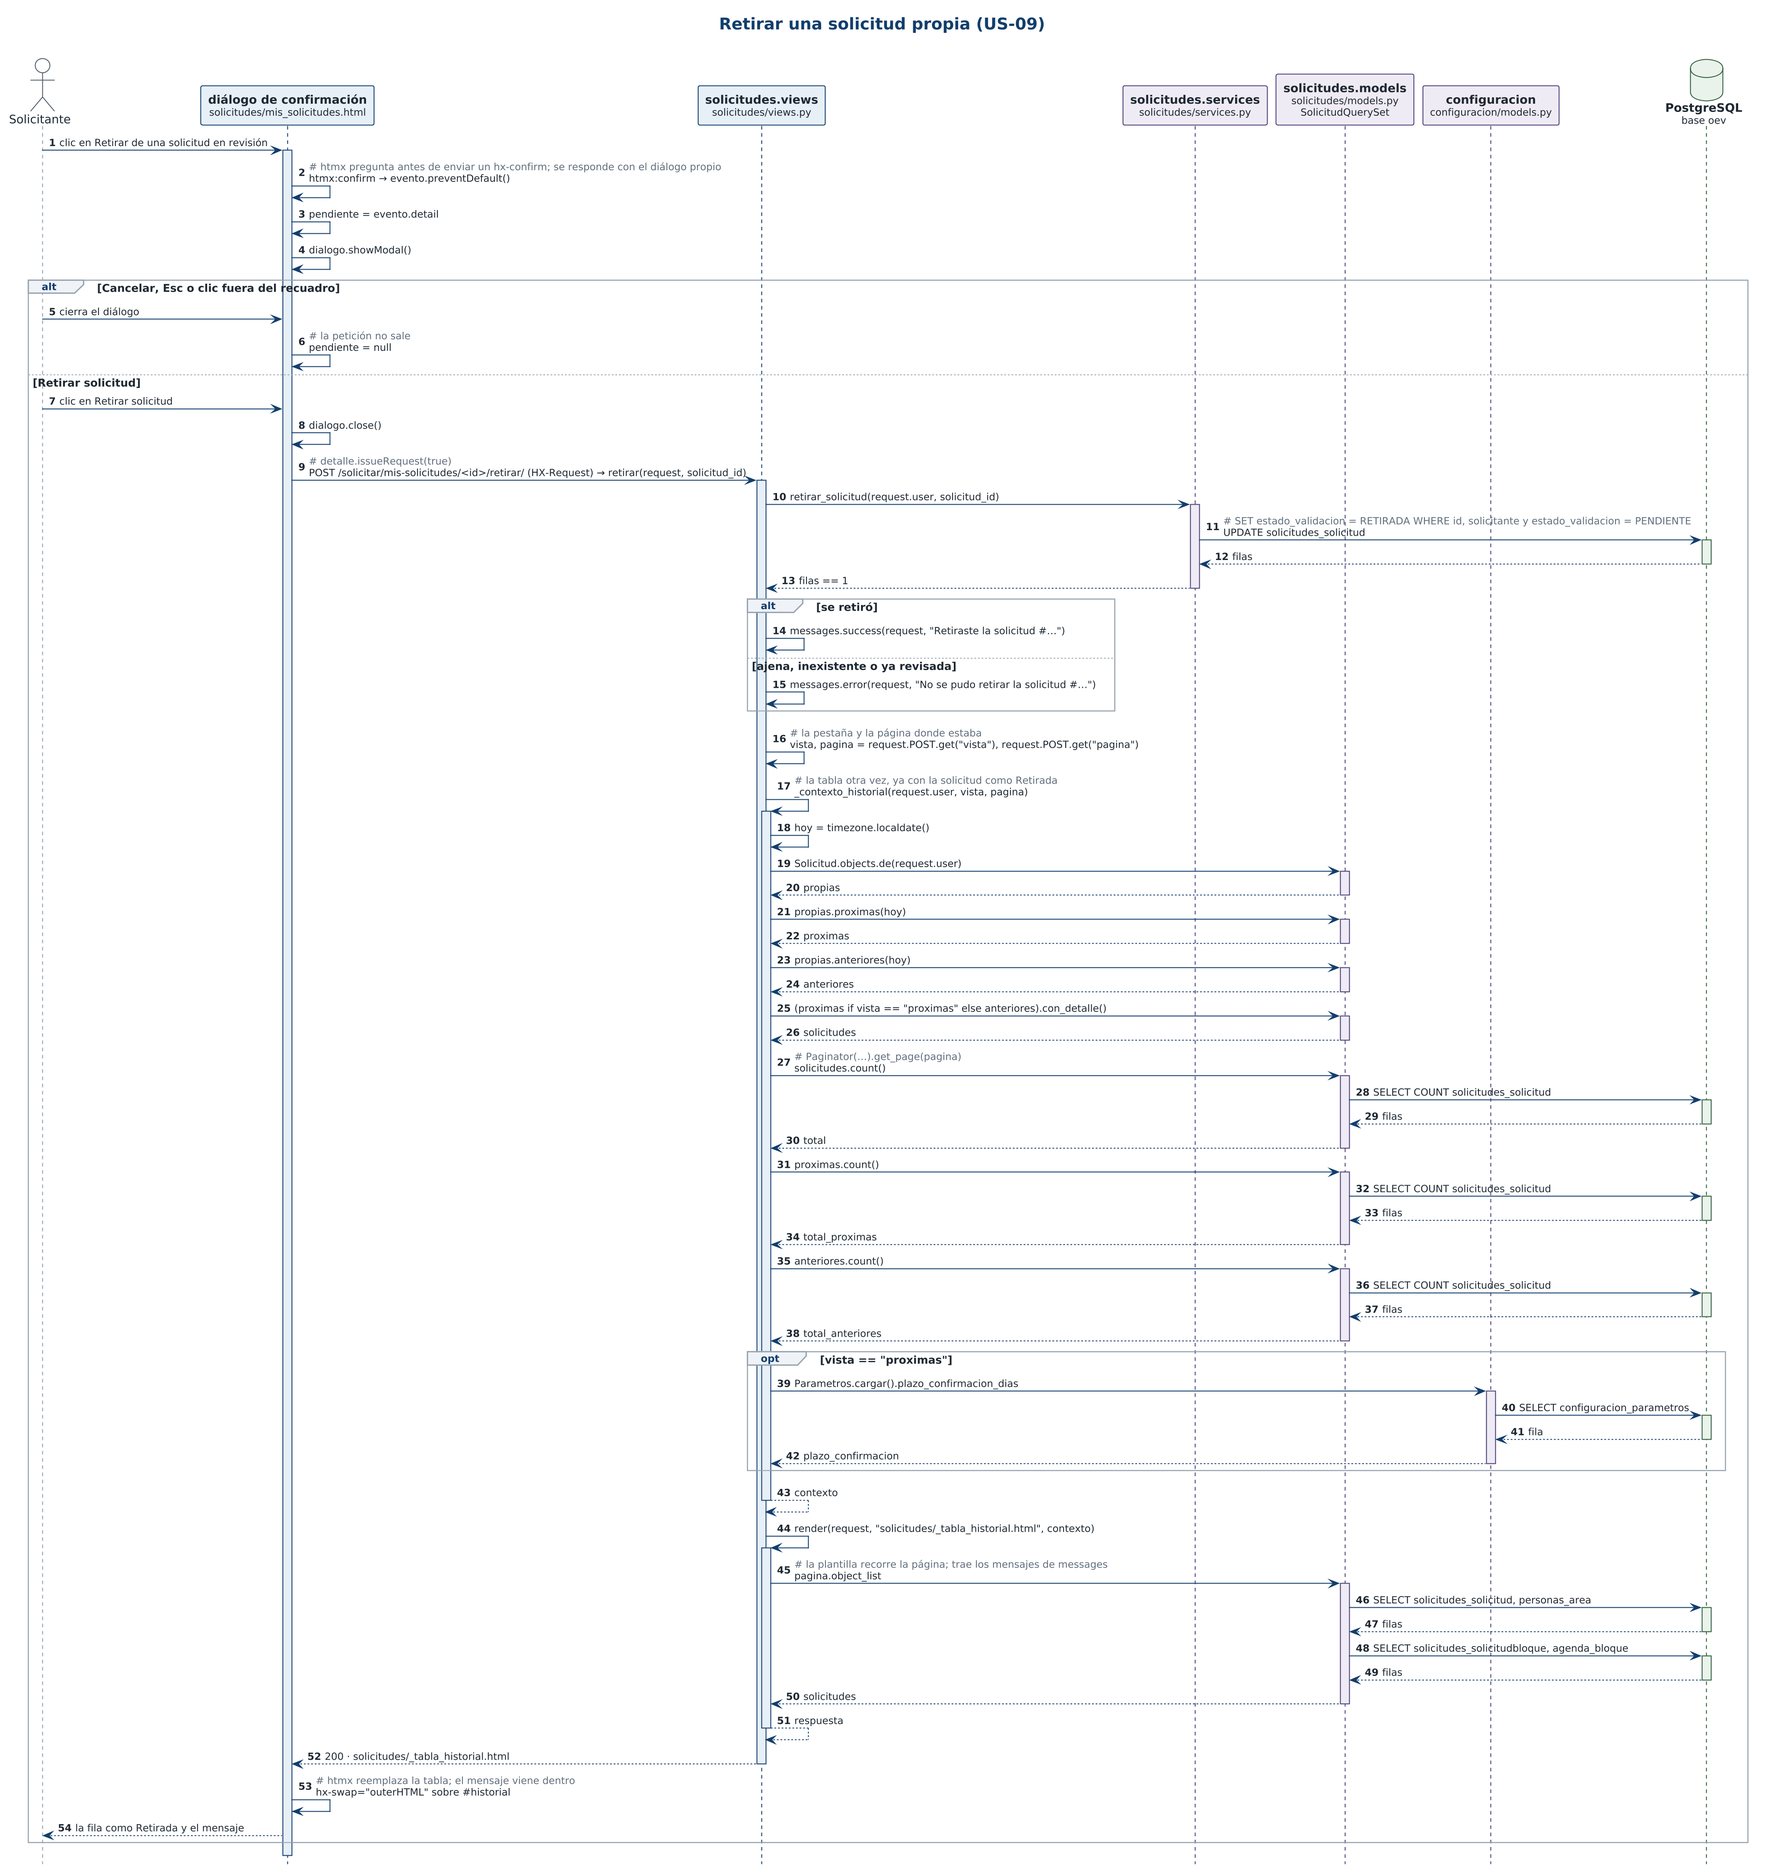
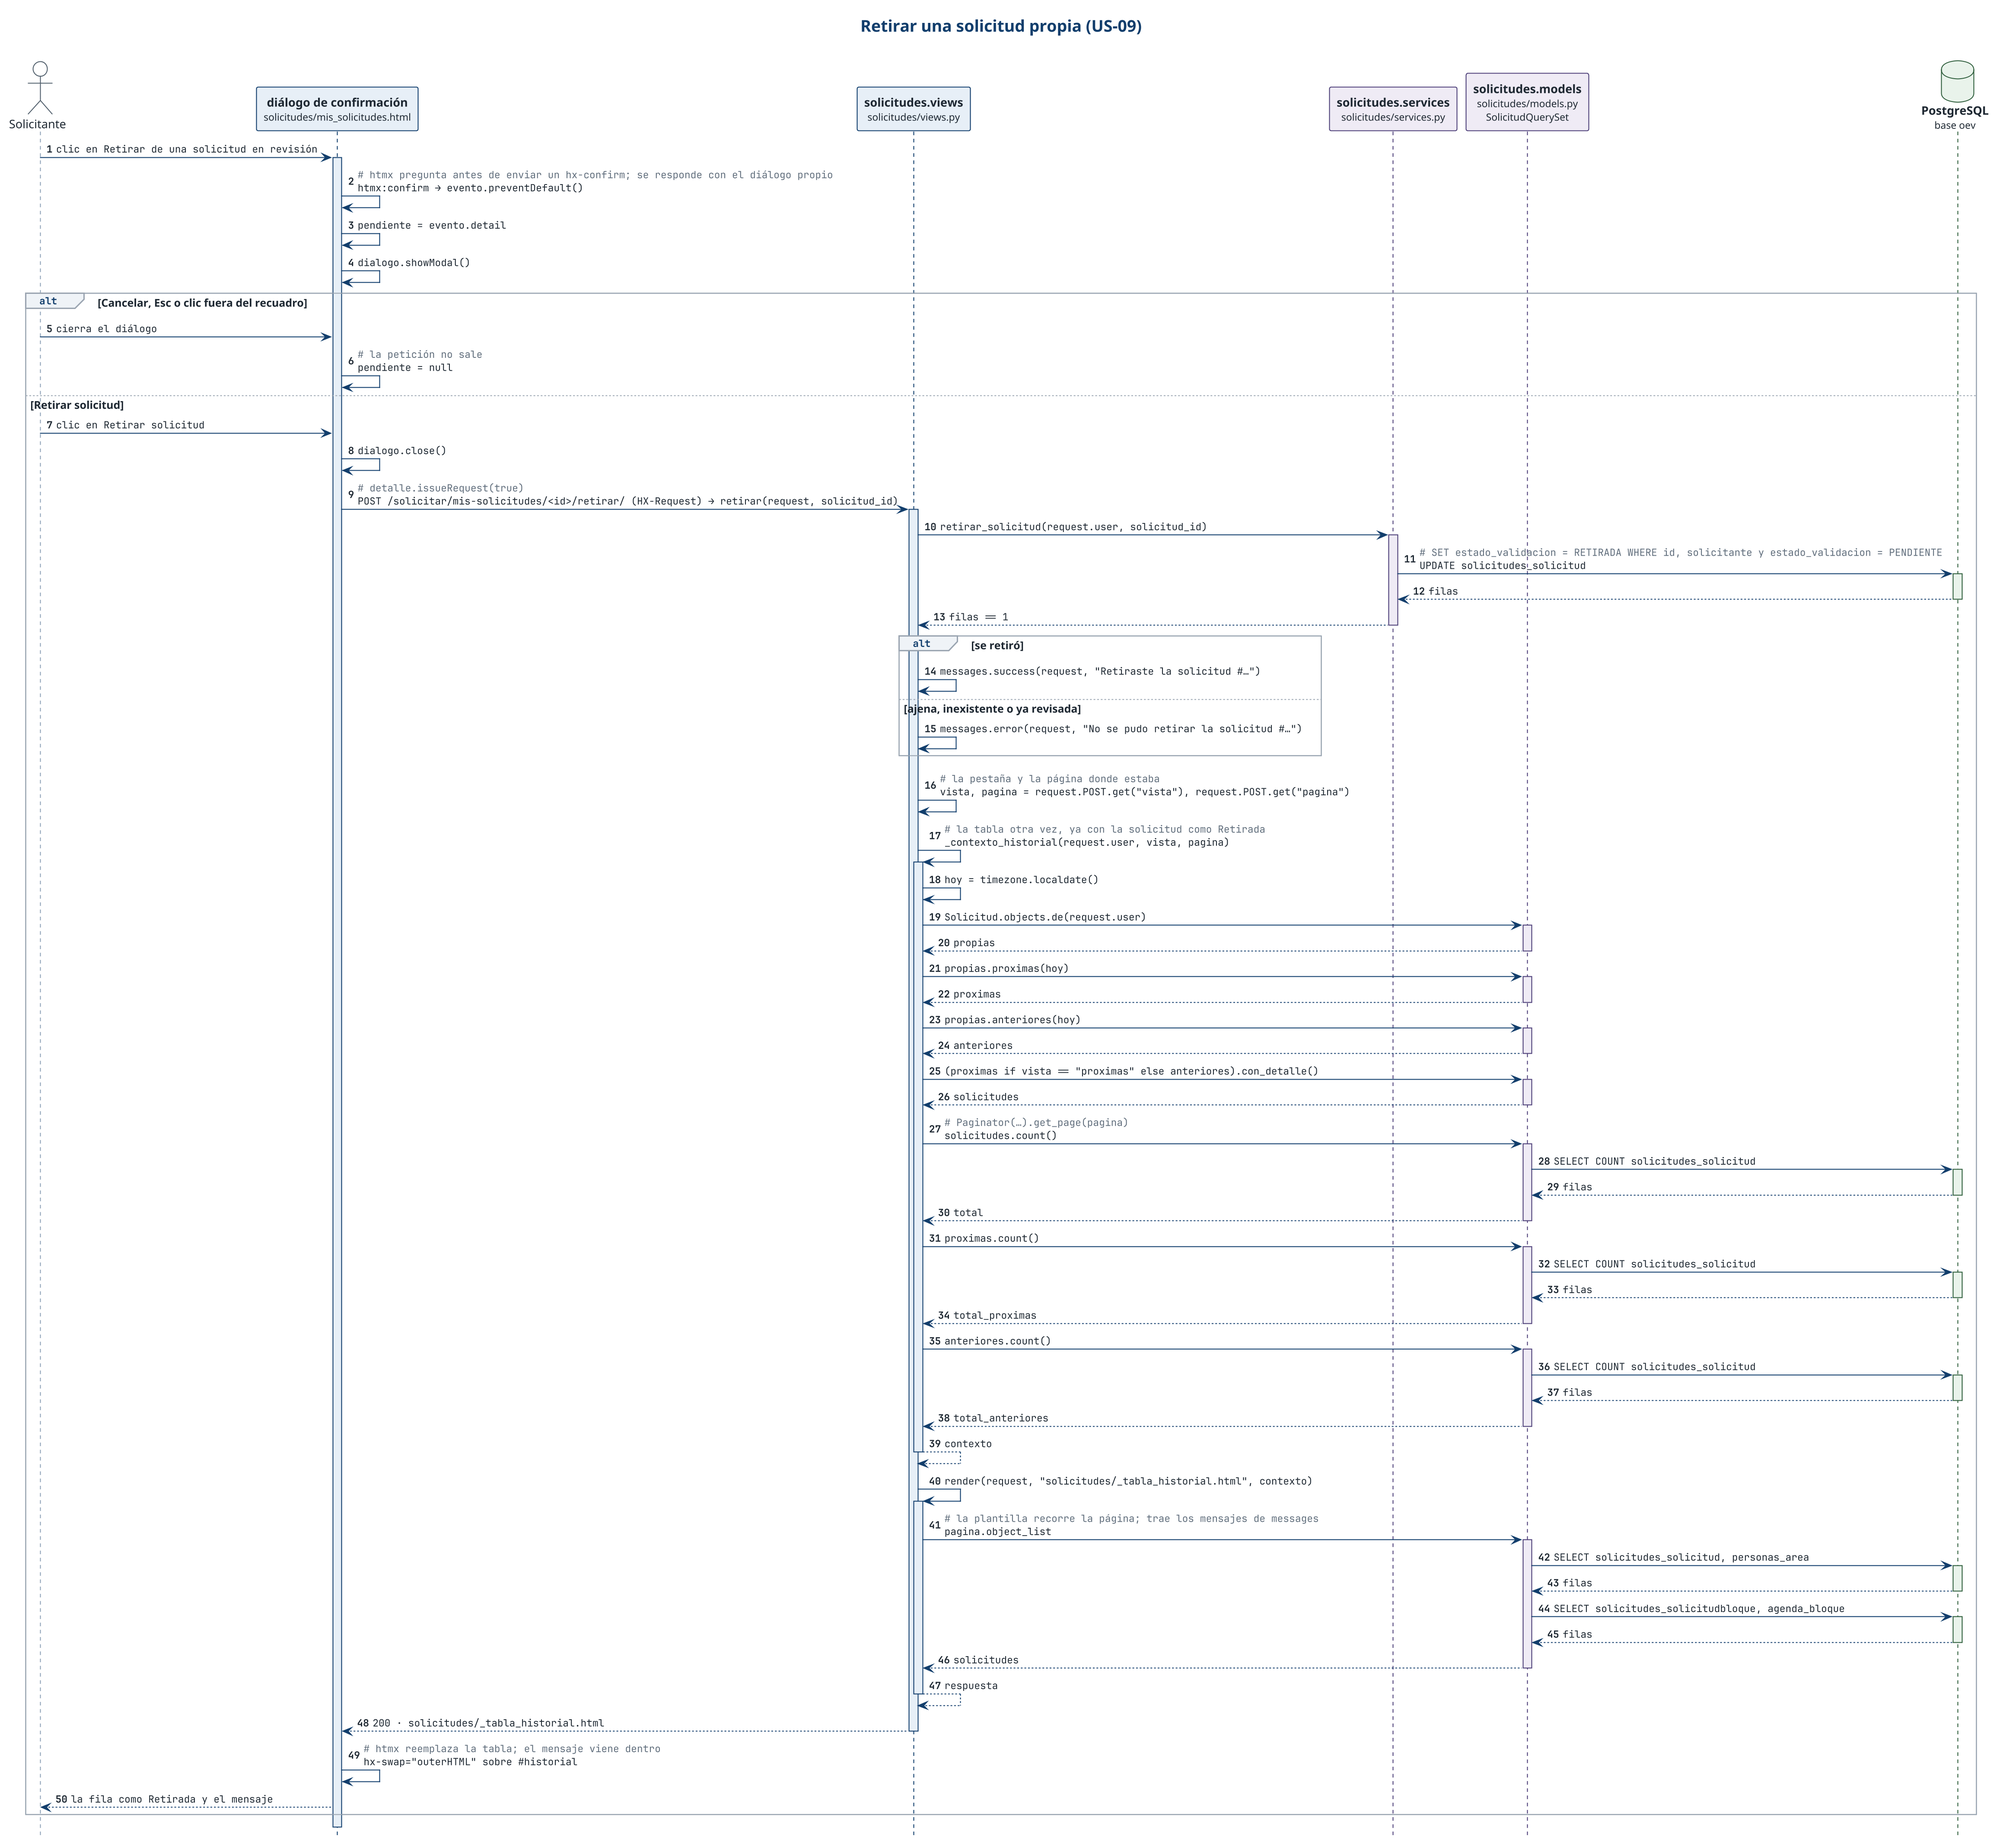
docs(solicitudes): quitar de los diagramas de US-09 la lectura del plazo
El PR de US-03 sacó de `_contexto_historial` la lectura de
`Parametros.plazo_confirmacion_dias`: la nota de Próximas ya no cita el plazo.
Ver y retirar seguían dibujando esa consulta, y diagramas.md la explicaba. Se
quitan la consulta, el participante configuracion y la frase.

diff --git a/docs/diagramas.md b/docs/diagramas.md
@@ -298,9 +298,7 @@ La página trae 20 solicitudes y siempre hace las mismas consultas: tres
 de esa página. Cambiar de pestaña o de página es el mismo `GET` con htmx, que
 recibe solo `_tabla_historial.html` y actualiza la dirección. Si htmx restaura
 el historial sin tenerlo en caché, pide la página entera, y `Vary: HX-Request`
-evita que el navegador confunda una respuesta con la otra. El plazo de la nota
-de confirmación se lee de `Parametros`, porque lo cambia administración, y solo
-en Próximas, que es la única pestaña que muestra la nota.
+evita que el navegador confunda una respuesta con la otra.
 
 ### Retirar una solicitud propia (US-09)
 
